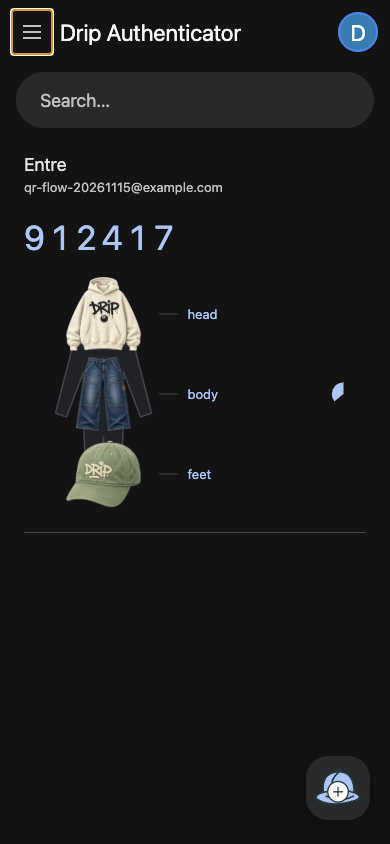
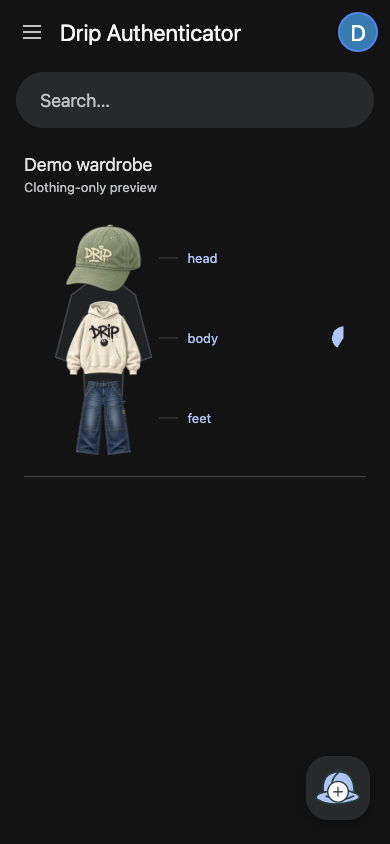
Hide numeric codes and copy action from Drip clothing UI

diff --git a/threadcheck/src/screens/Drip.tsx b/threadcheck/src/screens/Drip.tsx
@@ -31,7 +31,6 @@ import { Garment } from "../components/Garment";
 import { AccountForm } from "./AccountForm";
 import { loadAccounts, saveAccounts, LocalAccount } from "../accounts";
 import { accountCode, parseAccount } from "../../shared/totp";
-import * as Clipboard from "expo-clipboard";
 
 const streetwear: Record<
   Outfit["head"],
@@ -232,13 +231,6 @@ export default function Drip() {
               >
                 <Text style={styles.rowTitle}>{row.issuer}</Text>
                 <Text style={styles.note}>{row.label}</Text>
-                <Text
-                  selectable
-                  accessibilityLabel={`Authentication code for ${row.issuer}`}
-                  style={styles.otp}
-                >
-                  {code}
-                </Text>
                 <View style={styles.code}>
                   <View style={styles.garments}>
                     <Svg
@@ -393,30 +385,6 @@ export default function Drip() {
                 </ScrollView>
               ) : (
                 <>
-                  <Text selectable style={styles.otp}>
-                    {accountCode(sheet.row, timestamp)}
-                  </Text>
-                  <Pressable
-                    accessibilityRole="button"
-                    style={styles.action}
-                    onPress={async () => {
-                      try {
-                        await Clipboard.setStringAsync(
-                          accountCode(sheet.row, Date.now()),
-                        );
-                        setError("");
-                        setSheet(null);
-                      } catch (failure) {
-                        setError(
-                          failure instanceof Error
-                            ? failure.message
-                            : "Could not copy the code.",
-                        );
-                      }
-                    }}
-                  >
-                    <Text style={styles.linkText}>Copy code</Text>
-                  </Pressable>
                   <TextInput
                     accessibilityLabel="Account label"
                     placeholder="Account label"
@@ -432,10 +400,6 @@ export default function Drip() {
                     returnKeyType="done"
                     selectionColor={colors.blue}
                   />
-                  <Text style={styles.note}>
-                    Enter the current code on the service to finish setup or
-                    sign in.
-                  </Text>
                   {!!error && (
                     <Text accessibilityRole="alert" style={styles.error}>
                       {error}
@@ -557,13 +521,6 @@ const styles = StyleSheet.create({
     paddingBottom: 18,
   },
   rowTitle: { color: colors.text, fontSize: 18, lineHeight: 25 },
-  otp: {
-    color: colors.blue,
-    fontSize: 34,
-    letterSpacing: 5,
-    fontVariant: ["tabular-nums"],
-    marginVertical: 8,
-  },
   code: { flexDirection: "row", alignItems: "center", marginTop: 9 },
   garments: {
     flex: 1,

diff --git a/threadcheck/src/components/DripMenu.tsx b/threadcheck/src/components/DripMenu.tsx
@@ -158,12 +158,12 @@ export function DripMenu({
                 {page === "how" && (
                   <>
                     <Text style={styles.body}>
-                      Read each outfit from left to right: head, body, feet.
+                      Read each outfit from top to bottom: head, body, feet.
                     </Text>
                     <Text style={styles.body}>
-                      Each service has its own real verification code. The
-                      clothing arrangement follows that code; use the digits
-                      when signing in.
+                      The mannequin shows which clothing item goes in each
+                      position. Follow the current arrangement before the
+                      timer resets.
                     </Text>
                     <Text style={styles.body}>
                       Scan your fit each morning. Review the cutouts to use your
@@ -247,8 +247,8 @@ export function DripMenu({
                       catch up to the current combination.
                     </Text>
                     <Text style={styles.secondary}>
-                      Tap a service to copy its code, change its account label,
-                      or remove it. The separate outfit-gated vault is under
+                      Tap a service to change its account label or remove it.
+                      The separate outfit-gated vault is under
                       Settings → Vault & scanners.
                     </Text>
                   </>

diff --git a/threadcheck/README.md b/threadcheck/README.md
@@ -6,11 +6,11 @@
 
 Tap the **+ hat** on the main screen to open the camera scanner. In the app or website you want to protect (Microsoft, Google, Entré, etc.), open two-factor authentication settings, choose an authenticator app, and scan its setup QR. If you cannot use the camera, choose **Enter key** and enter the service name, account label, and Base32 setup key.
 
-Accounts appear with their real TOTP codes and per-service countdowns. Enter that code on the service to finish enrollment. Tap an account to copy its current code, rename the label, or remove it. Search matches service names and account labels. The clothing visuals remain alongside the digits, and your daily fit cutouts still work.
+Accounts show clothing combinations vertically on a mannequin, with head, body, and feet labels and per-service countdowns. Numeric TOTP codes are used internally to select the arrangement but are never rendered or offered for copying on the main screen or account details. Tap an account to rename its label or remove it. Search matches service names and account labels, and daily fit cutouts replace the bundled clothing images.
 
 Main-screen accounts work offline and persist on the device: native apps use Expo SecureStore; the web preview uses browser storage. Browser storage is not encrypted, so use disposable accounts for web demos. Old demo outfit labels are left untouched in storage and no longer appear as authenticator accounts. The separate outfit-gated server vault remains under **Menu → Settings → Vault & scanners**.
 
-To verify the companion site, open `http://localhost:3020`, create a demo account, choose **Connect authenticator app**, scan its QR with the + hat, and enter the code displayed for **Entre**. Sign out and back in to test a returning-user challenge.
+The companion site at `http://localhost:3020` currently expects numerical TOTP entry. The clothing-only main screen does not complete that verification flow; a clothing-verification integration is still needed. The separate server vault retains its gated code-reveal flow.
 
 ## Original vault workflow
 
